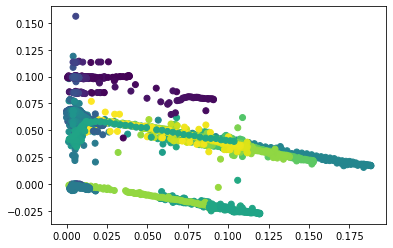
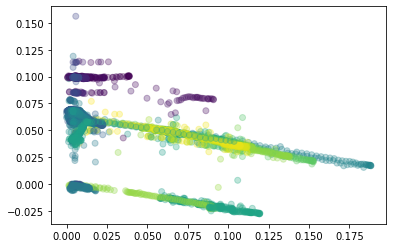
Updated with references to legacy, for old data

diff --git a/README.md b/README.md
@@ -12,8 +12,8 @@ import pandas as pd
 import requests
 import matplotlib.pyplot as plt
 
-# optional - makes plots pop out. highly recommended
-# %matplotlib qt
+# optional - makes plots pop out. highly recommended. disabled for rendering in git
+#%matplotlib qt
 
 # no trailing slash
 url_prod = "http://gigachad.justinjschmitz.com:21532";
@@ -55,7 +55,9 @@ display(runkeys_df)
 
 # change these values with 'tag' and 'name' respectively
 
-SELECTED_MAPTAG = 'dirt - stadium'
+# 'legacy' for all of my old training data 
+# it's ~250mb of data - please be courtious in pulling this one. i do not want to have to deal with rate limiting
+SELECTED_MAPTAG = 'dirt - stadium' 
 SELECTED_RUNKEY = 'default'
 
 ```
@@ -100,8 +102,16 @@ SELECTED_RUNKEY = 'default'
       <td>dirt - desert</td>
       <td>sgt_bigbird</td>
     </tr>
+    <tr>
+      <th>4</th>
+      <td>6</td>
+      <td>LEGACY</td>
+      <td>legacy</td>
+      <td>sgt_bigbird</td>
+    </tr>
   </tbody>
 </table>
+
 
 
 <table border="1" class="dataframe">
@@ -120,8 +130,15 @@ SELECTED_RUNKEY = 'default'
       <td>default</td>
       <td>1</td>
     </tr>
+    <tr>
+      <th>1</th>
+      <td>103</td>
+      <td>legacy</td>
+      <td>1</td>
+    </tr>
   </tbody>
 </table>
+
 
 
 ```python
@@ -138,8 +155,8 @@ print(f"Loaded {len(maptag_data.text)} chars of maptag data, {len(runkey_data.te
 
 
 ```python
-data = maptag_data
-# data = runkey_data
+# data = maptag_data
+data = runkey_data
 df = pd.json_normalize(data.json())
 ```
 
@@ -158,7 +175,7 @@ df["acc"] = df["speed"].diff()
 df = df[abs(df["acc"]) < 0.5]
 
 ## Now scatter the data 
-plt.scatter(x=df["slipDir"], y=df["acc"], c=df["speed"], alpha=1)
+plt.scatter(x=df["slipDir"], y=df["acc"], c=df["speed"], alpha=0.3)
 plt.show()
 ```
 
